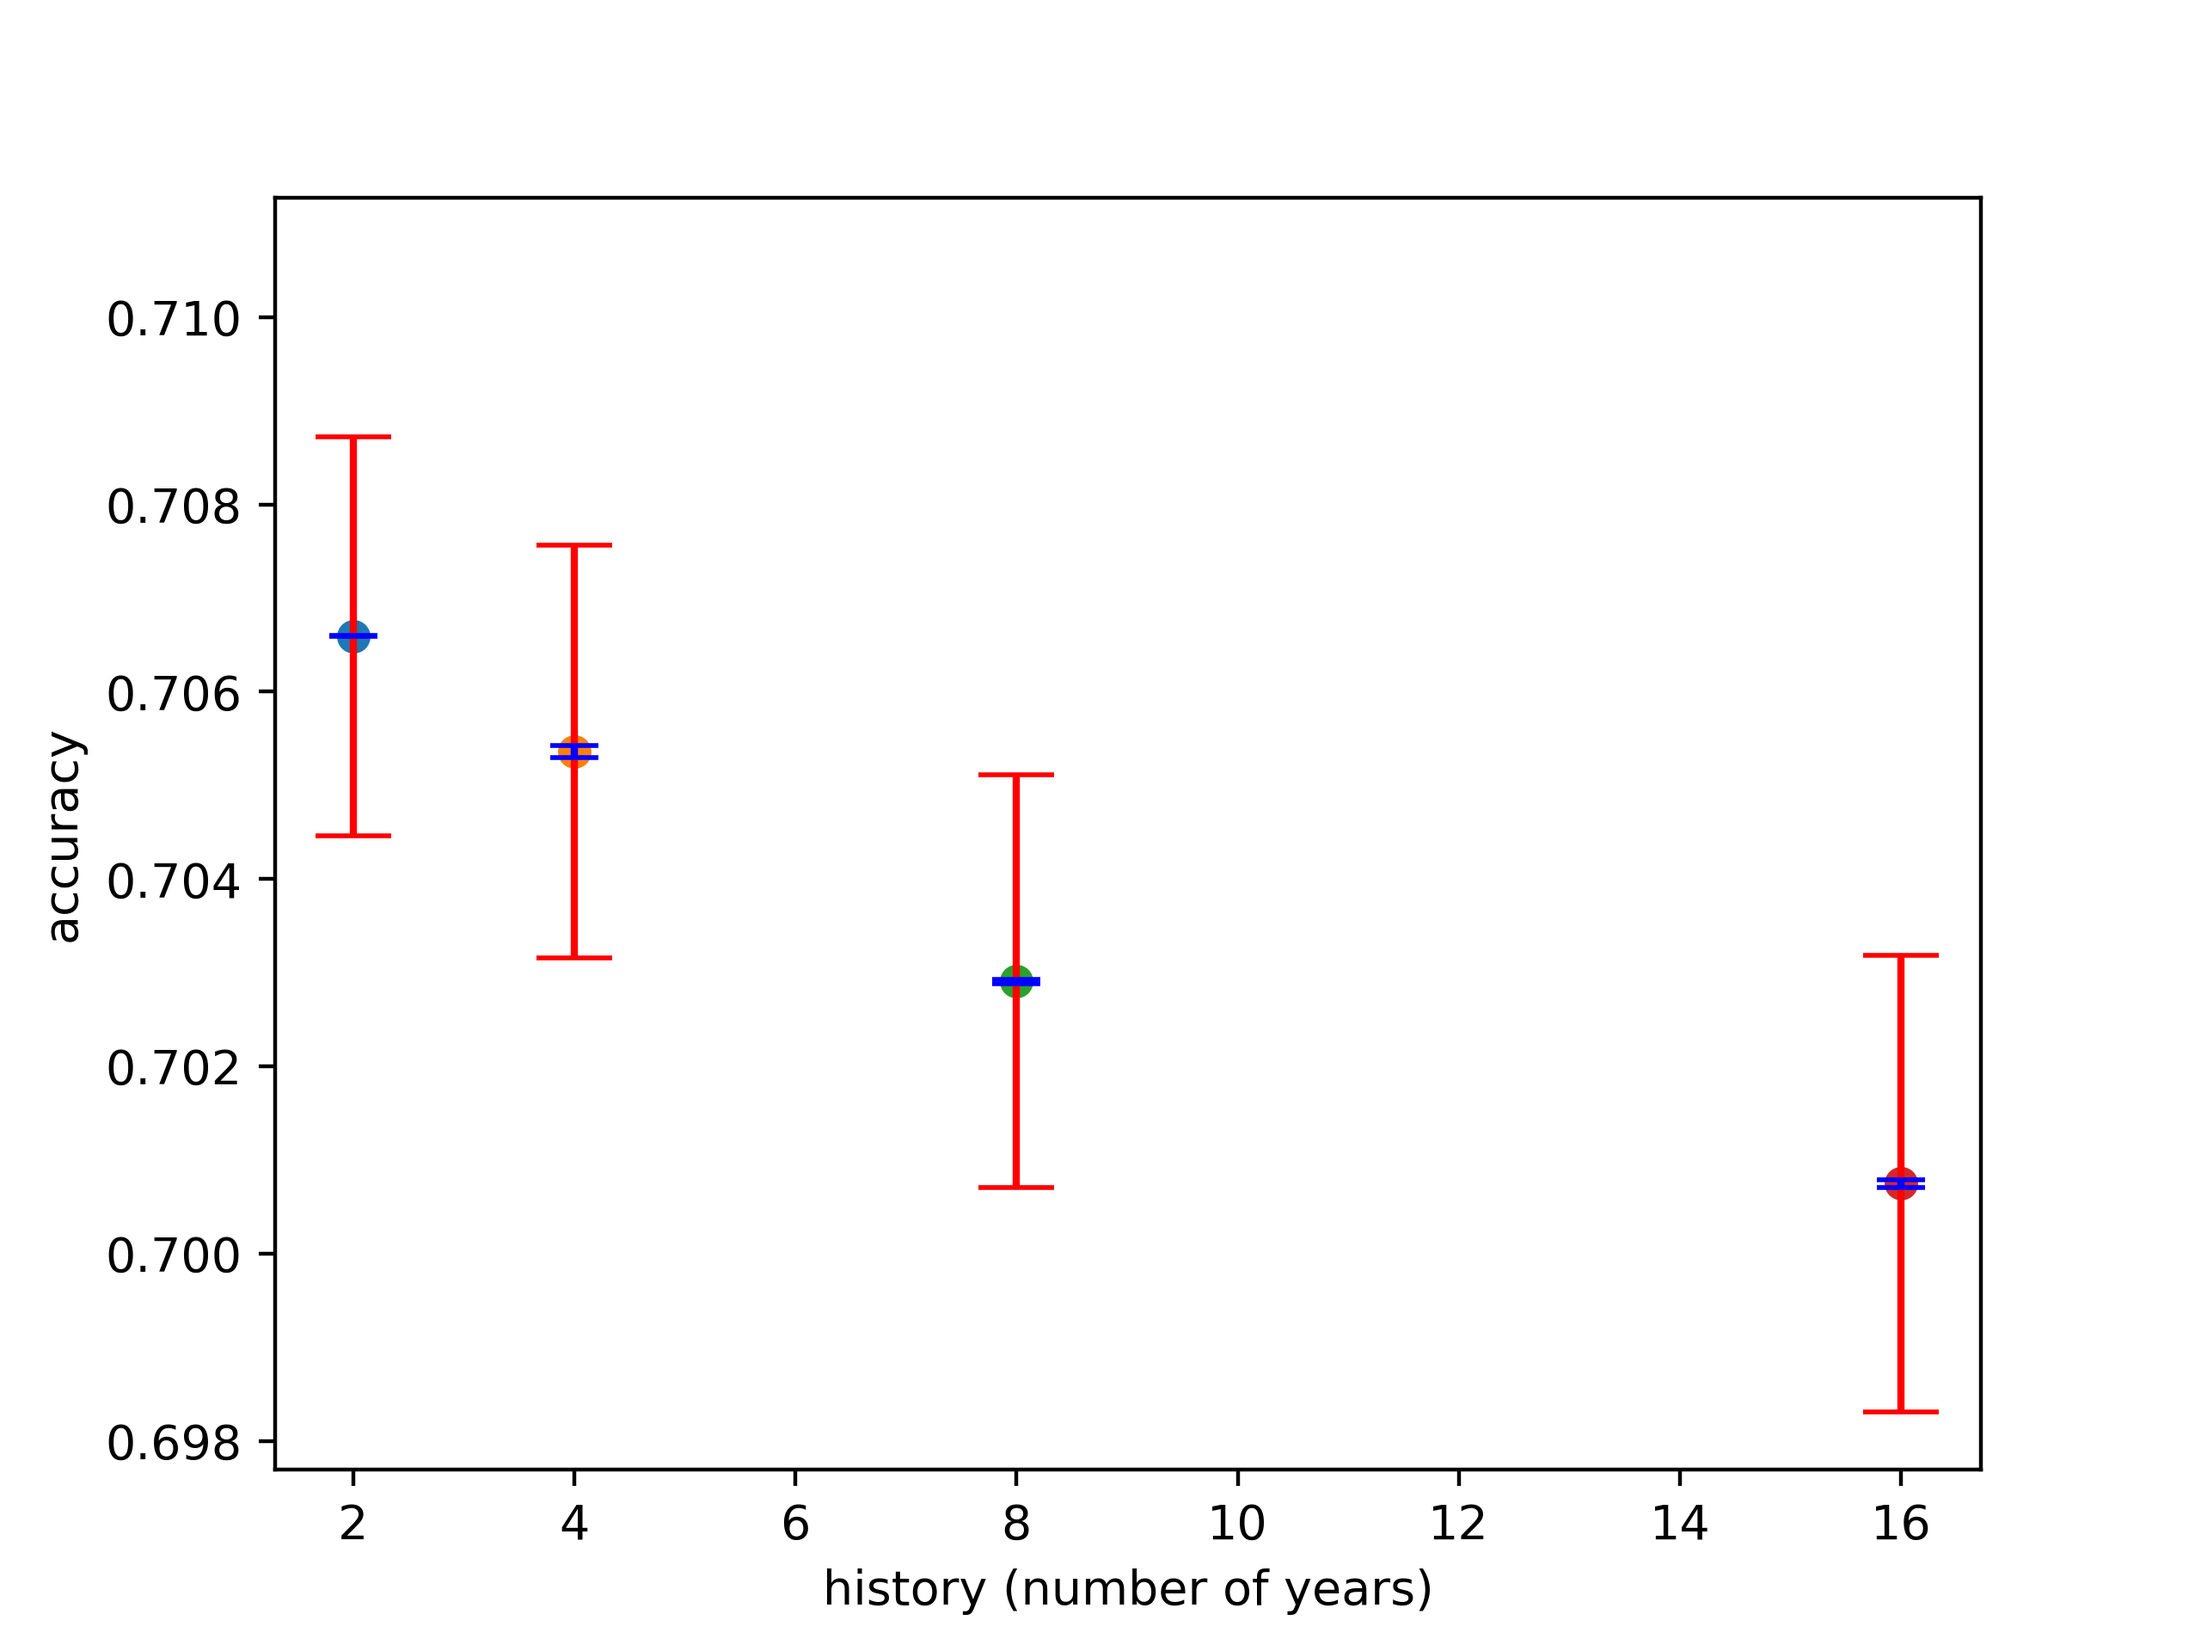
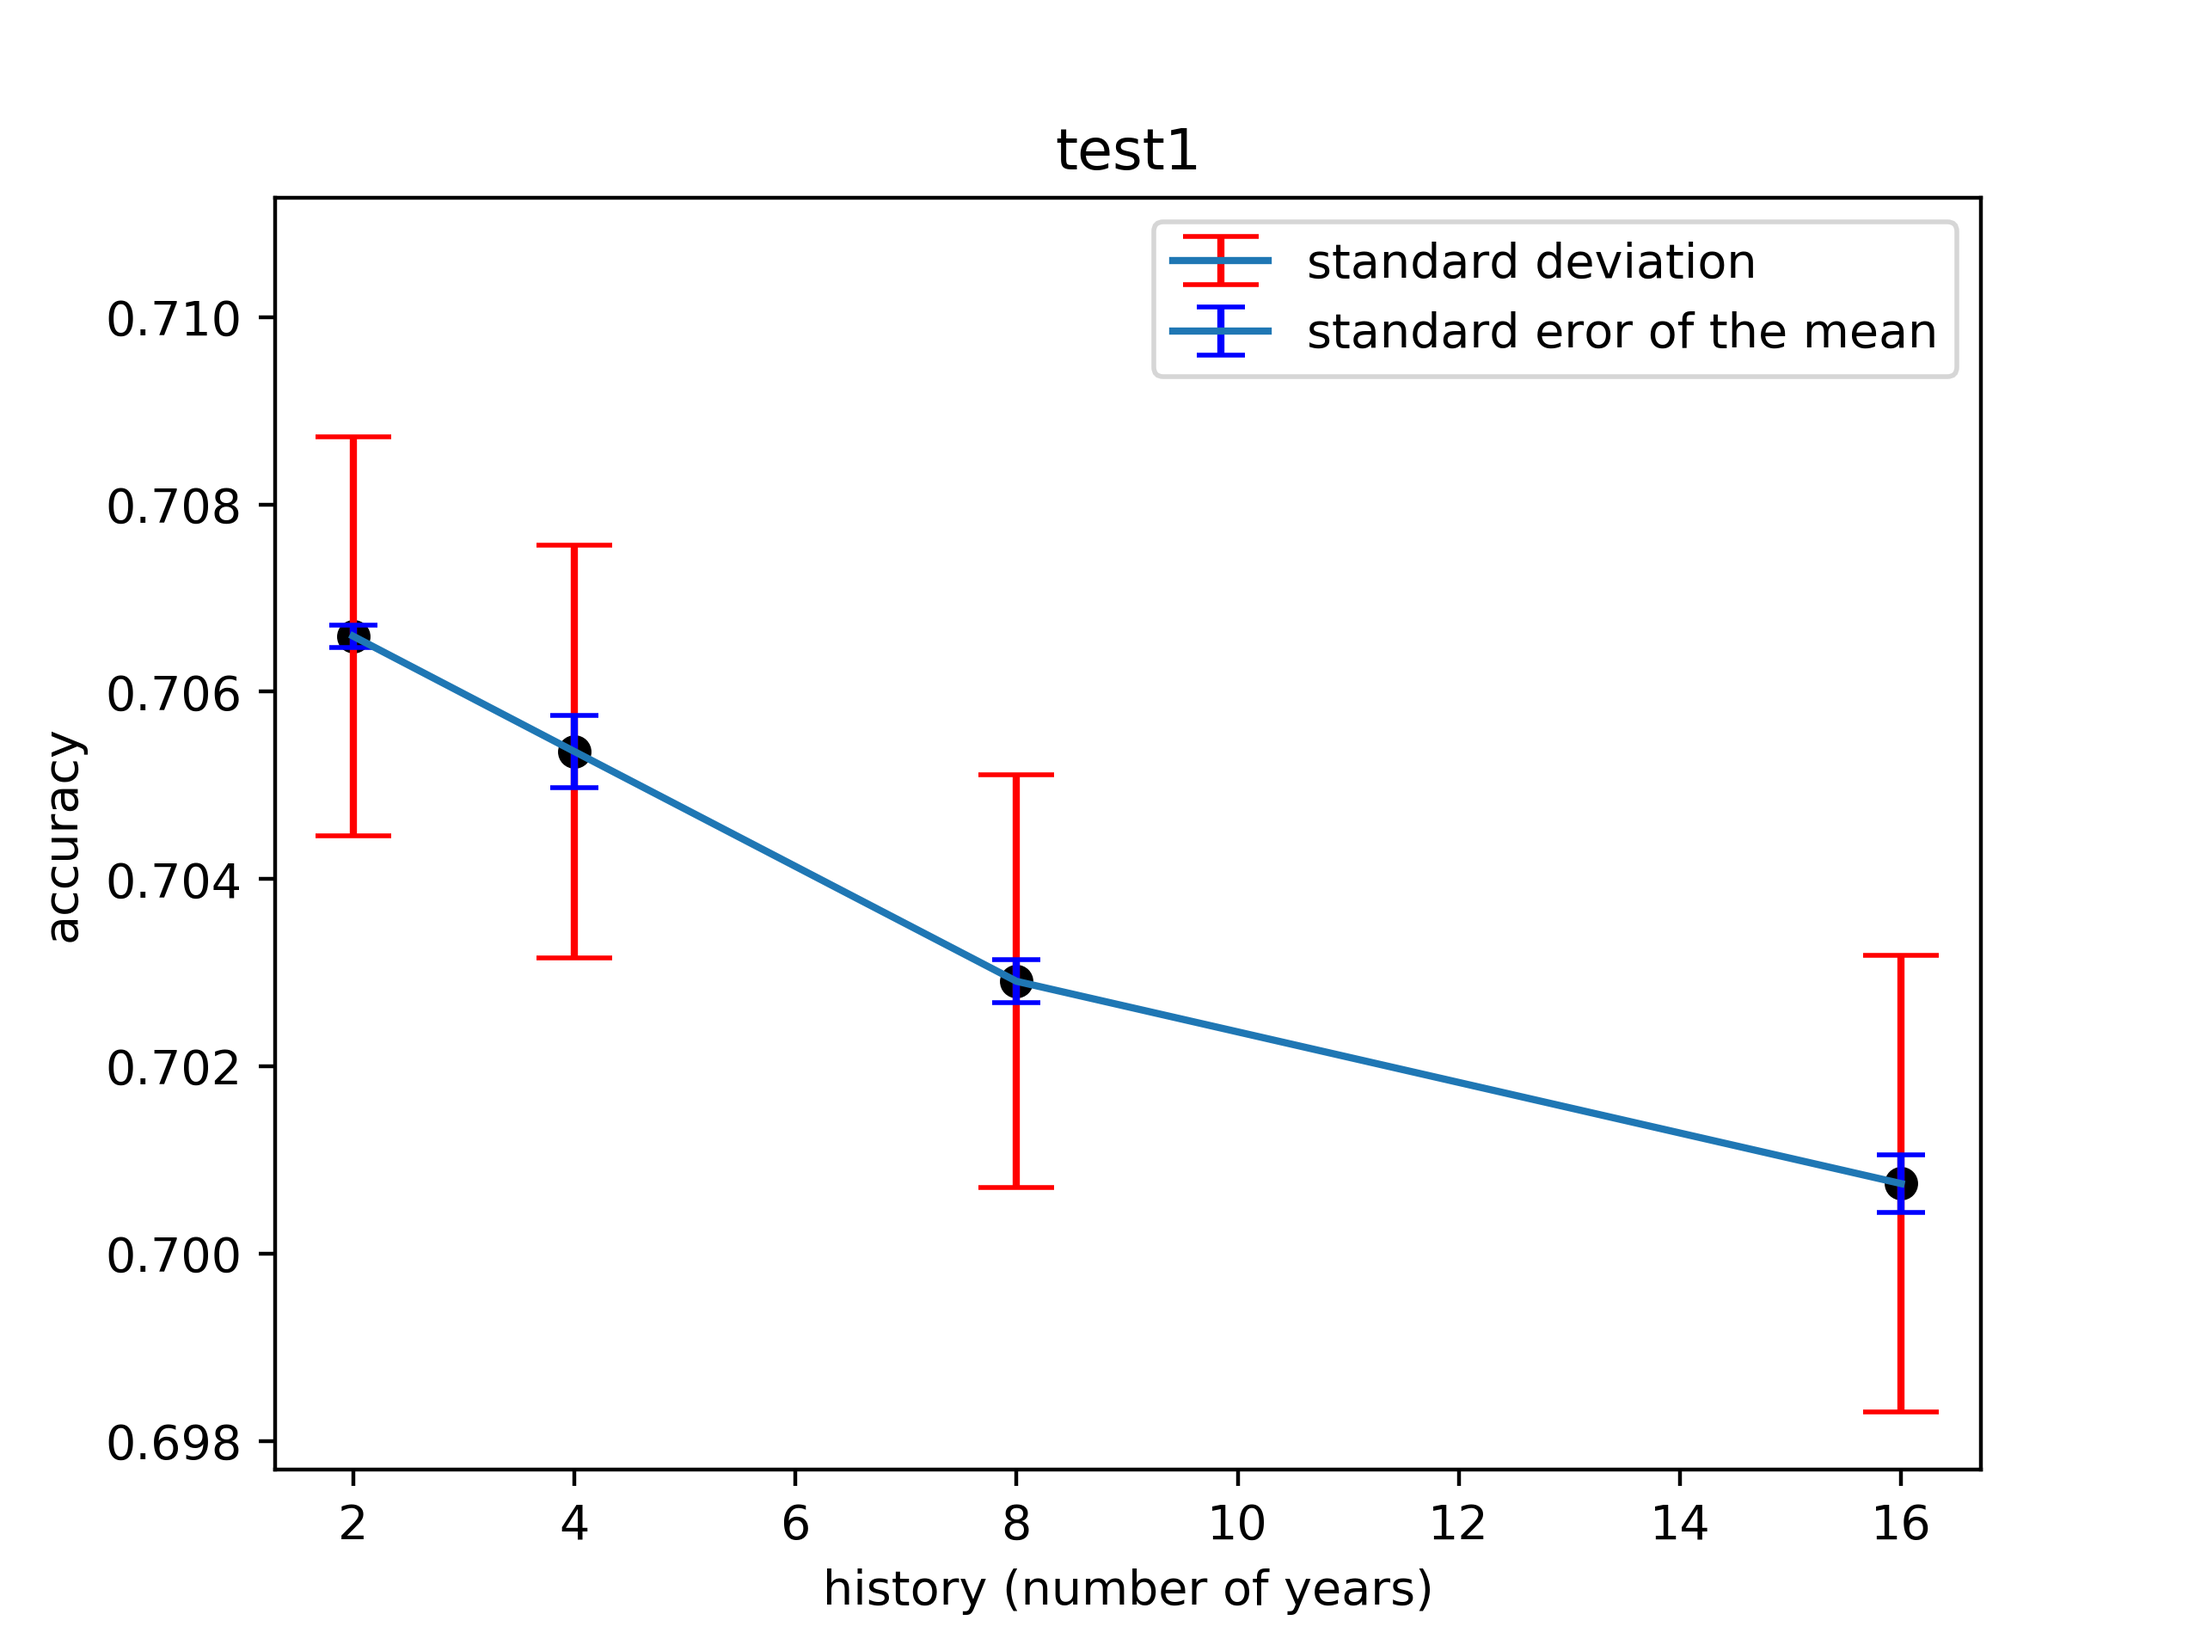
added plot, legend, and title

diff --git a/results/DataList.py b/results/DataList.py
@@ -40,22 +40,37 @@ class DataList:
     # Plots
     #---------------------------------------------------------------------------
 
-    def plotWithError(self):
+    def scatterWithError(self, x_list, y_list):
         std_dev = self.getStdDevAccuracy()
-        plt.scatter(self.getHistory(), self.getAverageAccuracy())
+        history = self.getHistory()
+        accuracy = self.getAverageAccuracy()
+
+        x_list.append(history)
+        y_list.append(accuracy)
+
+        plt.scatter(history, accuracy, c = "k")
+        if history == 2:
+            dev_label = "standard deviation"
+            err_label = "standard eror of the mean"
+        else:
+            dev_label = ""
+            err_label = ""
+
         plt.errorbar(
-            self.getHistory(),
-            self.getAverageAccuracy(),
+            history,
+            accuracy,
             yerr = std_dev,
             ecolor = "r",
-            capsize = 8
+            capsize = 8,
+            label = dev_label
         )
         plt.errorbar(
-            self.getHistory(),
-            self.getAverageAccuracy(),
-            yerr = std_dev / self.getSize(),
+            history,
+            accuracy,
+            yerr = std_dev / np.sqrt(self.getSize()),
             ecolor = "b",
-            capsize = 5
+            capsize = 5,
+            label = err_label
         )
 
     def scatterPlot(self, ax, colour, anno = ""):

diff --git a/results/plot_results.py b/results/plot_results.py
@@ -21,6 +21,7 @@ LAB = []
 
 def main():
     plot_file("test1/all.txt", "save")
+    plot_file("test2/all.txt", "save")
 
 #-------------------------------------------------------------------------------
 # Plot function
@@ -40,14 +41,6 @@ def plot_file(results_name, display_mode):
     dataTable.plotWithError(results_name, display_mode)
 
     #fig, ax = plt.subplots()
-
-    # TODO: bug prevents calling all at the same time
-    #dataTable.plotLogits(ax, results_name, "save")
-    #dataTable.plotDense(ax, results_name, "save")
-    #dataTable.plotSizes(ax, results_name, "save")
-    #dataTable.plotSteps(ax, results_name, "save")
-    #dataTable.plotFilters(ax, results_name, "save")
-    #dataTable.plotCountWithConfigName(ax, results_name, "save")
 
     config = open(results_name  + "_configs.txt", "w+")
     config.write(dataTable.getConfigs())

diff --git a/results/DataTable.py b/results/DataTable.py
@@ -48,11 +48,15 @@ class DataTable:
     #---------------------------------------------------------------------------
 
     def plotWithError(self, results_name, display_mode):
+        x_list, y_list = [], []
+        for dataList in self.dTable:
+            dataList.scatterWithError(x_list, y_list)
+
+        plt.plot(x_list, y_list)
+        plt.title(results_name[:-4])
         plt.ylabel("accuracy")
         plt.xlabel("history (number of years)")
-
-        for dataList in self.dTable:
-            dataList.plotWithError()
+        plt.legend()
 
         if display_mode == "show":
             plt.show()
